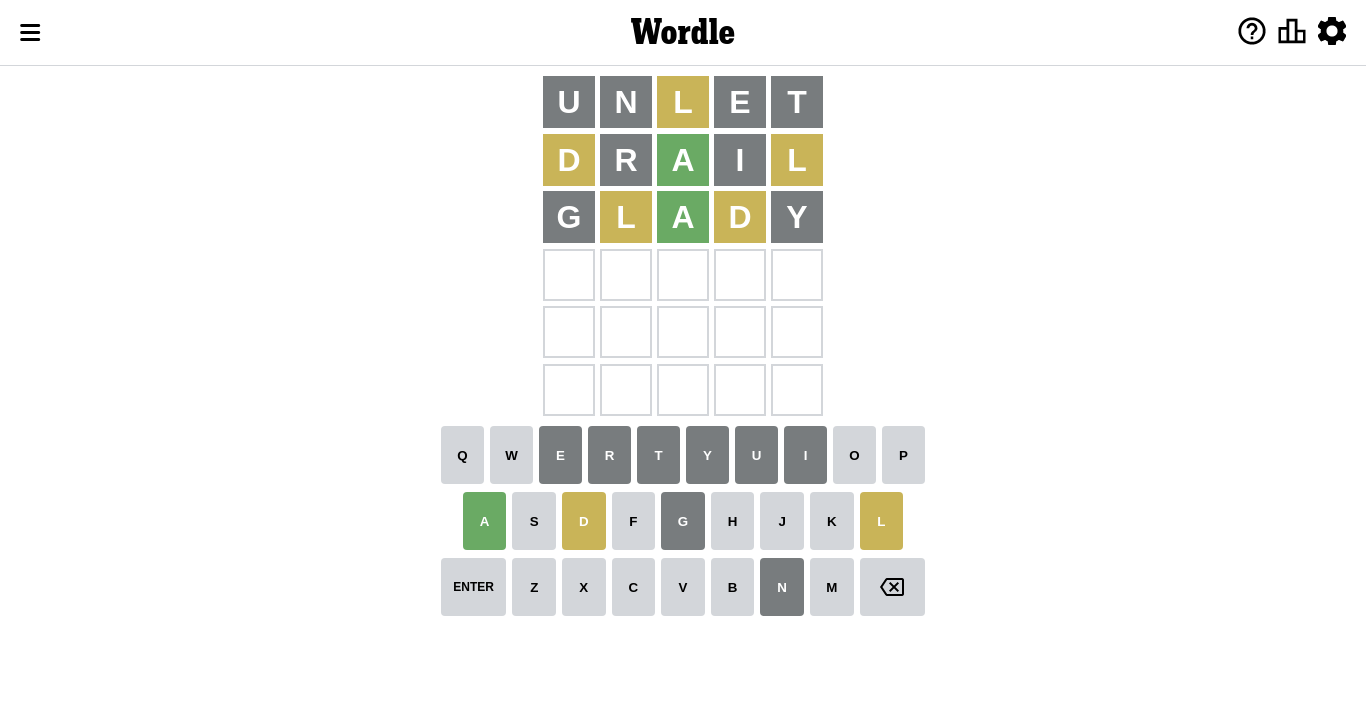
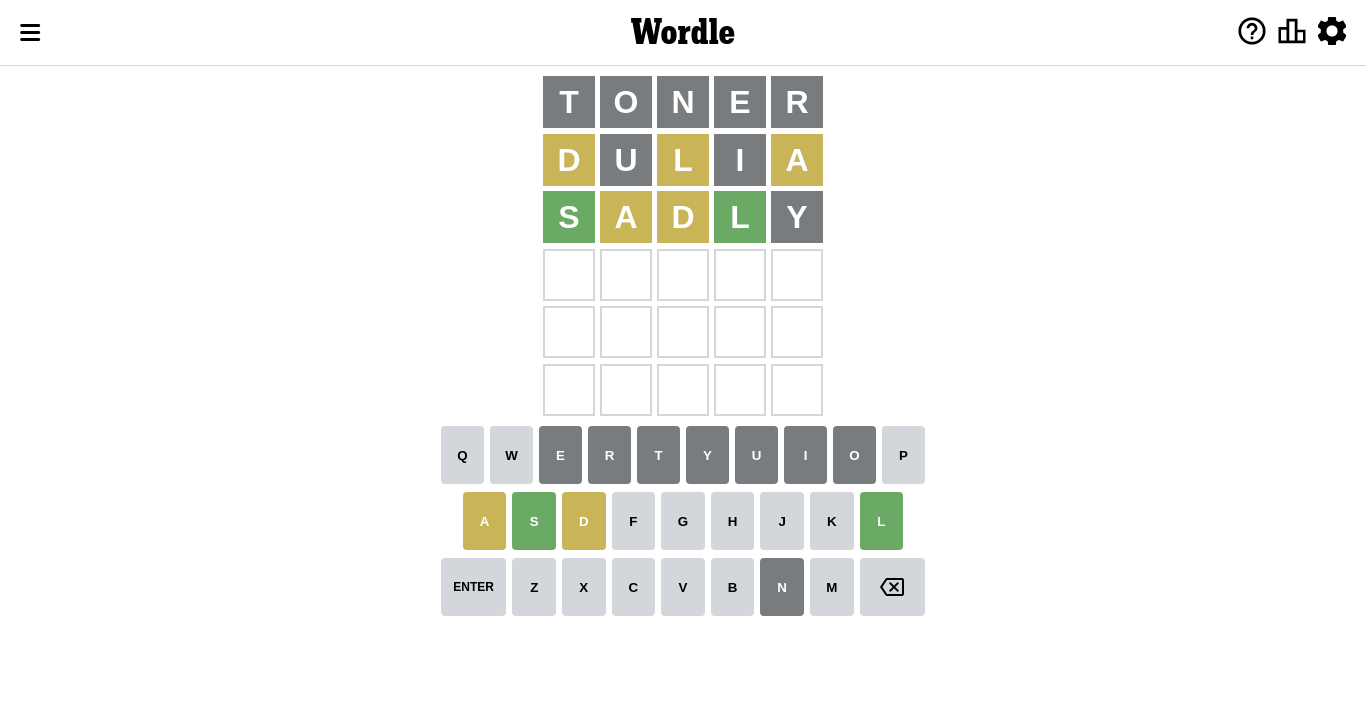
Upload new daily solution

diff --git a/_solutions/2022-09-29.md b/_solutions/2022-09-29.md
@@ -1,0 +1,213 @@
+---
+layout: solution
+title: Wordle for September 29, 2022
+date: 2022-09-29
+solved: true
+attempts: 4
+video_link: https://youtu.be/yHSuS0x9hQk
+---
+
+# Wordle for September 29, 2022
+
+## Attempt 1
+
+This is the first attempt and we'll choose a random word to start with.
+
+Let's start with word `toner`
+
+![Attempt 1](2022-09-29/attempt-1.png)
+
+Attempt for `toner` gives us 0 correct letters, 0 present letters and 5 wrong letters.
+
+If we look into details, we can see that:
+
+Letter `t` is not present in the word and we will not use it any more
+
+Letter `o` is not present in the word and we will not use it any more
+
+Letter `n` is not present in the word and we will not use it any more
+
+Letter `e` is not present in the word and we will not use it any more
+
+Letter `r` is not present in the word and we will not use it any more
+
+Some letters are missing (like `t`, `o`, `n`, `e`, `r`) but it's also important piece of information
+
+So far we don't know any of the letters!
+
+That was a great guess that limited number of remaining words
+
+
+
+## Attempt 2
+
+Right now we have 1062 words to choose from and best of them seem to be `[hauld dhyal child duali dulia]`
+
+So far we know that possible letters are:
+
+At position 1: `[a b c d f g h i j k l m p q s u v w x y z]`
+
+At position 2: `[a b c d f g h i j k l m p q s u v w x y z]`
+
+At position 3: `[a b c d f g h i j k l m p q s u v w x y z]`
+
+At position 4: `[a b c d f g h i j k l m p q s u v w x y z]`
+
+At position 5: `[a b c d f g h i j k l m p q s u v w x y z]`
+
+Next guess is `dhyal`, let's see what it gives us
+
+Wordle does not know word `dhyal`, need to try something different
+
+## Attempt 2
+
+Right now we have 1061 words to choose from and best of them seem to be `[hauld child duali dulia sauld]`
+
+So far we know that possible letters are:
+
+At position 1: `[a b c d f g h i j k l m p q s u v w x y z]`
+
+At position 2: `[a b c d f g h i j k l m p q s u v w x y z]`
+
+At position 3: `[a b c d f g h i j k l m p q s u v w x y z]`
+
+At position 4: `[a b c d f g h i j k l m p q s u v w x y z]`
+
+At position 5: `[a b c d f g h i j k l m p q s u v w x y z]`
+
+Next guess is `duali`, let's see what it gives us
+
+Wordle does not know word `duali`, need to try something different
+
+## Attempt 2
+
+Right now we have 1060 words to choose from and best of them seem to be `[hauld child dulia sauld alish]`
+
+So far we know that possible letters are:
+
+At position 1: `[a b c d f g h i j k l m p q s u v w x y z]`
+
+At position 2: `[a b c d f g h i j k l m p q s u v w x y z]`
+
+At position 3: `[a b c d f g h i j k l m p q s u v w x y z]`
+
+At position 4: `[a b c d f g h i j k l m p q s u v w x y z]`
+
+At position 5: `[a b c d f g h i j k l m p q s u v w x y z]`
+
+Next guess is `sauld`, let's see what it gives us
+
+Wordle does not know word `sauld`, need to try something different
+
+## Attempt 2
+
+Right now we have 1059 words to choose from and best of them seem to be `[hauld child dulia alish hilsa]`
+
+So far we know that possible letters are:
+
+At position 1: `[a b c d f g h i j k l m p q s u v w x y z]`
+
+At position 2: `[a b c d f g h i j k l m p q s u v w x y z]`
+
+At position 3: `[a b c d f g h i j k l m p q s u v w x y z]`
+
+At position 4: `[a b c d f g h i j k l m p q s u v w x y z]`
+
+At position 5: `[a b c d f g h i j k l m p q s u v w x y z]`
+
+Next guess is `dulia`, let's see what it gives us
+
+![Attempt 2](2022-09-29/attempt-2.png)
+
+Attempt for `dulia` gives us 0 correct letters, 3 present letters and 2 wrong letters.
+
+If we look into details, we can see that:
+
+Letter `d` is on a different spot - this means that it cannot be at position 1
+
+Letter `u` is not present in the word and we will not use it any more
+
+Letter `l` is on a different spot - this means that it cannot be at position 3
+
+Letter `i` is not present in the word and we will not use it any more
+
+Letter `a` is on a different spot - this means that it cannot be at position 5
+
+Some letters are missing (like `u`, `i`) but it's also important piece of information
+
+Word should contain letters `[d l a]`
+
+That was a great guess that limited number of remaining words
+
+
+
+## Attempt 3
+
+Right now we have 226 words to choose from and best of them seem to be `[sadly scald spald madly badly]`
+
+So far we know that possible letters are:
+
+At position 1: `[a b c f g h j k l m p q s v w x y z]`
+
+At position 2: `[a b c d f g h j k l m p q s v w x y z]`
+
+At position 3: `[a b c d f g h j k m p q s v w x y z]`
+
+At position 4: `[a b c d f g h j k l m p q s v w x y z]`
+
+At position 5: `[b c d f g h j k l m p q s v w x y z]`
+
+Next guess is `sadly`, let's see what it gives us
+
+![Attempt 3](2022-09-29/attempt-3.png)
+
+Attempt for `sadly` gives us 2 correct letters, 2 present letters and 1 wrong letters.
+
+If we look into details, we can see that:
+
+Letter `s` should be at position 1
+
+Letter `a` is on a different spot - this means that it cannot be at position 2
+
+Letter `d` is on a different spot - this means that it cannot be at position 3
+
+Letter `l` should be at position 4
+
+Letter `y` is not present in the word and we will not use it any more
+
+We got information about the correct letters and it should make next attempt easier
+
+Some letters are missing (like `y`) but it's also important piece of information
+
+Word should contain letters `[d l a s]`
+
+That was a great guess that limited number of remaining words
+
+
+
+## Attempt 4
+
+Right now we have 8 words to choose from and best of them seem to be `[scald spald shall scalp scall]`
+
+So far we know that possible letters are:
+
+At position 1: `[s]`
+
+At position 2: `[b c d f g h j k l m p q s v w x z]`
+
+At position 3: `[a b c f g h j k m p q s v w x z]`
+
+At position 4: `[l]`
+
+At position 5: `[b c d f g h j k l m p q s v w x z]`
+
+Next guess is `scald`, let's see what it gives us
+
+![Attempt 4](2022-09-29/attempt-4.png)
+
+That's the correct answer! The word is `scald`!
+
+## Conclusion
+
+Today's word is `scald` and it took 4 attempts to guess it
+
